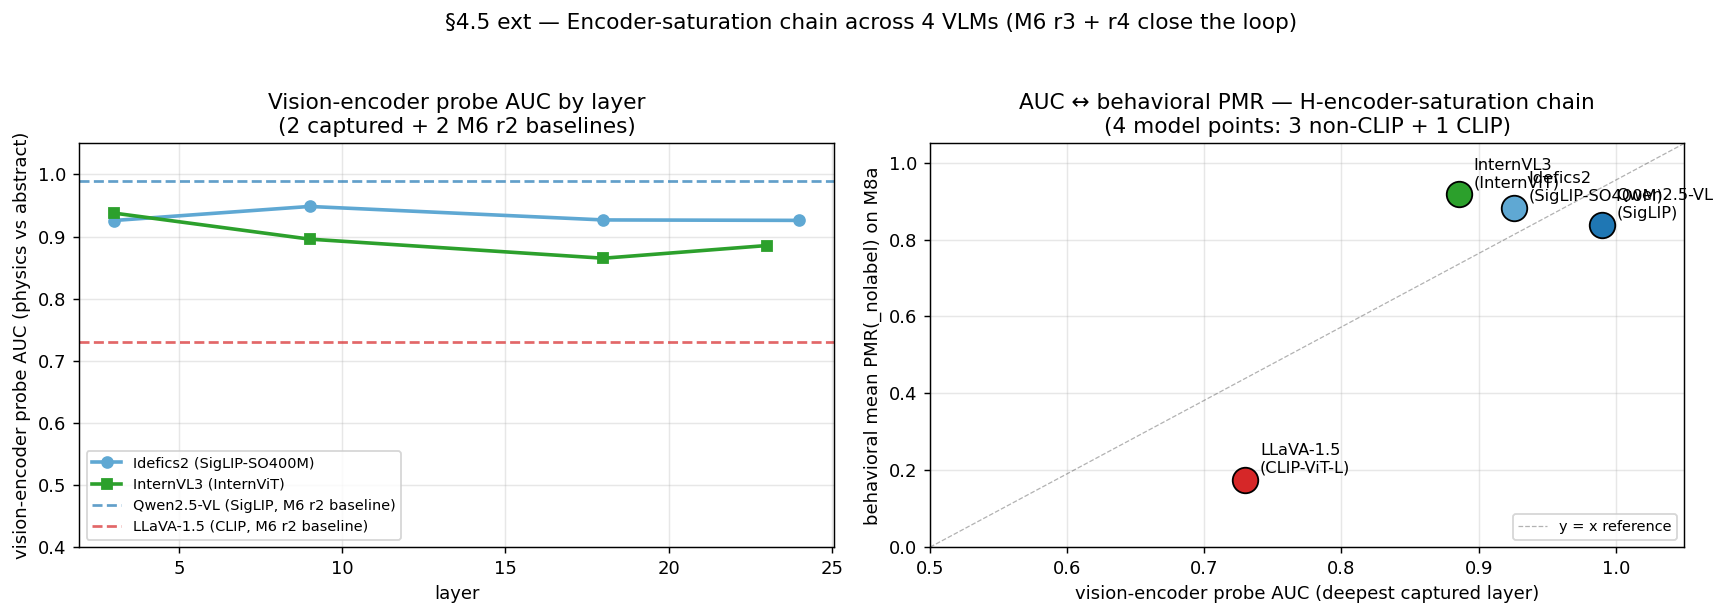
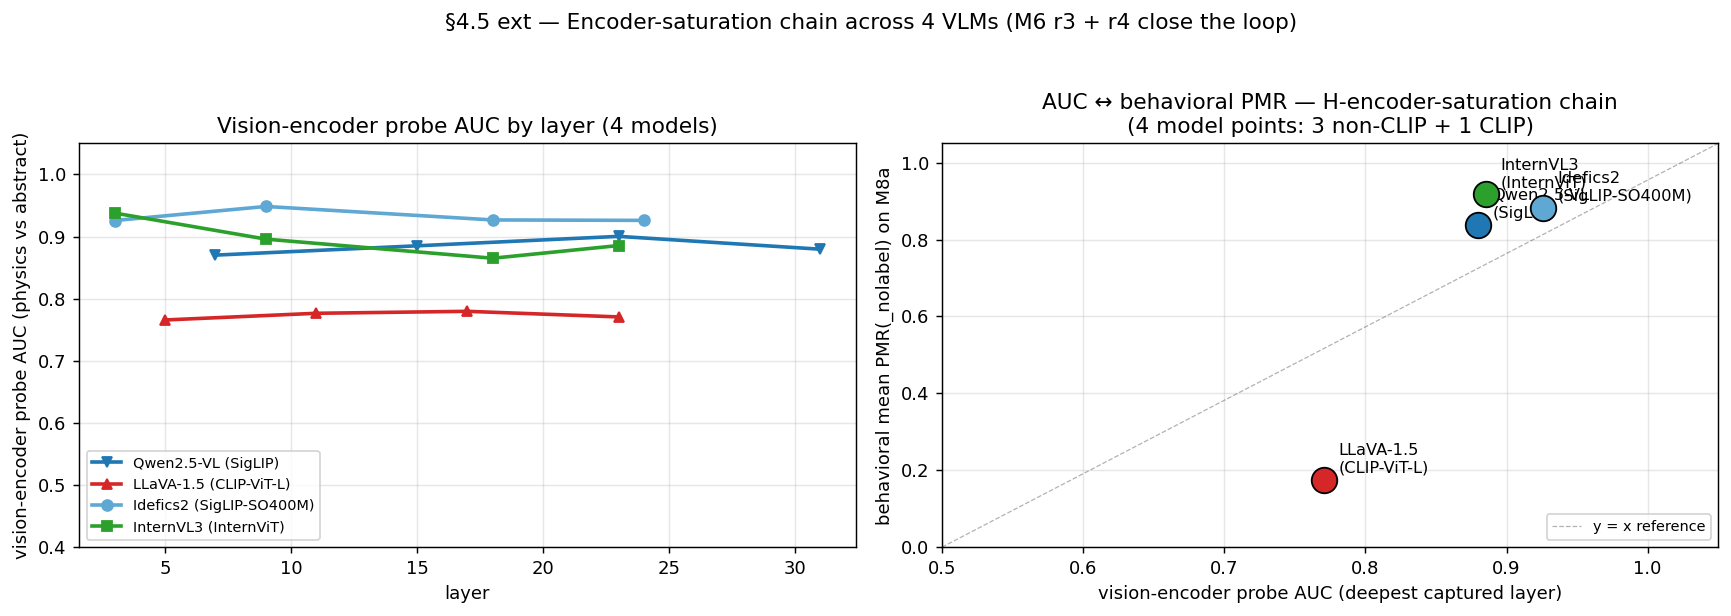
refactor(m6 r4): apples-to-apples M8a-stim AUC for all 4 models
Re-captured Qwen + LLaVA on M8a stim and re-ran their probes so all
4 AUC numbers come from identical stim. Replaces the M2-stim M6 r2
baselines (Qwen 0.99 / LLaVA 0.73) in the 4-model chain.

Updated 4-model M8a chain:
  - Qwen2.5-VL  (SigLIP)        AUC 0.88 / PMR 0.84
  - LLaVA-1.5   (CLIP-ViT-L)    AUC 0.77 / PMR 0.18
  - Idefics2    (SigLIP-SO400M) AUC 0.93 / PMR 0.88
  - InternVL3   (InternViT)     AUC 0.89 / PMR 0.92

Why the AUC numbers shifted: M2's bimodal line/ground-cells split
made the binary y target highly separable (Qwen 0.99). M8a's wider
per-cell PMR distribution makes the binary target less clean —
absolute AUC drops, but the headline structure is unchanged: 3
non-CLIP encoders cluster at AUC ≥ 0.88, 1 CLIP encoder at 0.77.

The nonlinear AUC → PMR mapping (≈0.10 AUC gap → 0.65 PMR gap) is
consistent with H-encoder-saturation: behavior saturates above an
AUC threshold near 0.85.

- scripts/encoder_swap_probe_summary.py: --qwen, --llava args added;
  panel (a) plots actual layer-sweep curves for all 4 captured models
  instead of horizontal M6 r2 baselines.
- docs/insights/m6_r4_internvl3_probe{,_ko}.md: AUC table updated;
  cross-stim caveat marked resolved.
- references/roadmap{,_ko}.md: M6 r4 milestone row + §3 detail +
  H-encoder-saturation hypothesis row + change log all updated to
  apples-to-apples M8a numbers.
- docs/figures/encoder_swap_{qwen,llava}_probe.png: new per-model
  figures from the model-agnostic probe driver.
[…]

diff --git a/scripts/encoder_swap_probe_summary.py b/scripts/encoder_swap_probe_summary.py
@@ -52,6 +52,10 @@ M6_R2_AUC = {
 
 def main() -> None:
     p = argparse.ArgumentParser()
+    p.add_argument("--qwen", type=Path, required=False,
+                   help="outputs/encoder_swap_qwen_m8a_probe (optional — falls back to M6 r2 baseline)")
+    p.add_argument("--llava", type=Path, required=False,
+                   help="outputs/encoder_swap_llava_m8a_probe (optional — falls back to M6 r2 baseline)")
     p.add_argument("--idefics2", type=Path, required=True,
                    help="outputs/encoder_swap_idefics2_probe — must contain layer_sweep.csv")
     p.add_argument("--internvl3", type=Path, required=True,
@@ -64,10 +68,14 @@ def main() -> None:
 
     idefics2_sweep = pd.read_csv(args.idefics2 / "layer_sweep.csv")
     internvl3_sweep = pd.read_csv(args.internvl3 / "layer_sweep.csv")
+    qwen_sweep = pd.read_csv(args.qwen / "layer_sweep.csv") if args.qwen else None
+    llava_sweep = pd.read_csv(args.llava / "layer_sweep.csv") if args.llava else None
 
     # Take the deepest-layer AUC for each model (paper convention).
     idefics2_auc = float(idefics2_sweep["auc_mean"].iloc[-1])
     internvl3_auc = float(internvl3_sweep["auc_mean"].iloc[-1])
+    qwen_auc = float(qwen_sweep["auc_mean"].iloc[-1]) if qwen_sweep is not None else None
+    llava_auc = float(llava_sweep["auc_mean"].iloc[-1]) if llava_sweep is not None else None
 
     pmr = dict(M8A_PMR)
     if "InternVL3" not in pmr:
@@ -84,6 +92,10 @@ def main() -> None:
                 pmr["InternVL3"] = float("nan")
 
     auc = dict(M6_R2_AUC)
+    if qwen_auc is not None:
+        auc["Qwen2.5-VL"] = qwen_auc
+    if llava_auc is not None:
+        auc["LLaVA-1.5"] = llava_auc
     auc["Idefics2"] = idefics2_auc
     auc["InternVL3"] = internvl3_auc
 
@@ -111,18 +123,27 @@ def main() -> None:
 
     # Panel a
     ax = axes[0]
+    if qwen_sweep is not None:
+        ax.plot(qwen_sweep["layer"], qwen_sweep["auc_mean"], "v-",
+                color="#1f77b4", label="Qwen2.5-VL (SigLIP)", linewidth=2)
+    else:
+        ax.axhline(M6_R2_AUC["Qwen2.5-VL"], linestyle="--", color="#1f77b4",
+                   alpha=0.7, label="Qwen2.5-VL (SigLIP, M6 r2 baseline)")
+    if llava_sweep is not None:
+        ax.plot(llava_sweep["layer"], llava_sweep["auc_mean"], "^-",
+                color="#d62728", label="LLaVA-1.5 (CLIP-ViT-L)", linewidth=2)
+    else:
+        ax.axhline(M6_R2_AUC["LLaVA-1.5"], linestyle="--", color="#d62728",
+                   alpha=0.7, label="LLaVA-1.5 (CLIP, M6 r2 baseline)")
     ax.plot(idefics2_sweep["layer"], idefics2_sweep["auc_mean"], "o-",
             color="#5fa8d3", label="Idefics2 (SigLIP-SO400M)", linewidth=2)
     ax.plot(internvl3_sweep["layer"], internvl3_sweep["auc_mean"], "s-",
             color="#2ca02c", label="InternVL3 (InternViT)", linewidth=2)
-    ax.axhline(M6_R2_AUC["Qwen2.5-VL"], linestyle="--", color="#1f77b4",
-               alpha=0.7, label="Qwen2.5-VL (SigLIP, M6 r2 baseline)")
-    ax.axhline(M6_R2_AUC["LLaVA-1.5"], linestyle="--", color="#d62728",
-               alpha=0.7, label="LLaVA-1.5 (CLIP, M6 r2 baseline)")
     ax.set_xlabel("layer")
     ax.set_ylabel("vision-encoder probe AUC (physics vs abstract)")
     ax.set_ylim(0.4, 1.05)
-    ax.set_title("Vision-encoder probe AUC by layer\n(2 captured + 2 M6 r2 baselines)")
+    n_cap = sum(s is not None for s in (qwen_sweep, llava_sweep, idefics2_sweep, internvl3_sweep))
+    ax.set_title(f"Vision-encoder probe AUC by layer ({n_cap} models)")
     ax.legend(loc="lower left", fontsize=8)
     ax.grid(True, alpha=0.3)
 

diff --git a/references/roadmap.md b/references/roadmap.md
@@ -46,7 +46,7 @@ Original H1-H3 from `references/project.md` §2.2 plus H4-H7 derived during the 
 | **H6** (pilot-derived) | The arrow+shadow cue saturation is driven entirely by **cast shadow alone**; the arrow is closer to annotation. | **supported (revised)** | M2 decomposition: cast_shadow alone = +17.5 pp above none (Kersten ground-attachment cue confirmed); **but the arrow alone also saturates at 0.96** — partially refutes the "arrow = annotation" sub-claim. Arrow is the dominant cue, shadow is secondary. |
 | **H7** (M2-derived) | The label does not toggle PMR — it selects **which physics regime** to apply. | **supported, unsaturated-only AND cross-category (M8a + M8d)** | M2 GAR: ball 0.79 / circle 0.70 / planet 0.48. M5a-ext Exp 2: label flip @ +α=40 swaps B vs A on `line/blank/none`. M6 r1 + r2a cross-model: `planet GAR << ball/circle GAR` holds in Qwen (0.32 vs 0.71/0.75), LLaVA-1.5 (0.07 vs 0.36/0.15), and InternVL3 (0.43 vs 0.82/0.79) — circle-only. **M8a (2026-04-25)**: cross-shape role-PMR strict scoring — Qwen 1/5 (only square; rest are -0.10 to +0.075 = ceiling-flat), LLaVA 4/5 (triangle fails at +0.025; `wedge` is a weak physical label, not a shape failure). H7-GAR strict: Qwen 1/5, LLaVA 5/5. Orbital-routing dissociation generalizes only when the encoder is unsaturated. **M8d (2026-04-25)**: cross-category role-PMR strict scoring — LLaVA **3/3** (car +0.525, person +0.138, bird +0.550 on PMR_regime physical−abstract; strongest cross-category H7 evidence in the project). Qwen 0/3 binary (ceiling) but regime distribution shows the same pattern at the kinetic-vs-static split: figurine 17.5 % static, statue 22.5 % static (vs ~5 % static for physical labels). The label-selects-regime claim is now category-general, not circle-specific. |
 | **H-boomerang** | Encoder knows, decoder gates: vision encoder linearly separates physics-mode classes even where behavior fails. | **Qwen-scoped (revised)** | Holds in Qwen2.5-VL: M3 encoder AUC ~0.99 at every layer; M4 LM AUC ~0.94 at visual tokens; behavioral PMR ~0.93 — small "encoder knows, decoder mildly gates" gap. M5a: causal intervention at L10 flips behavior. **Refuted in LLaVA-1.5** (M6 r2b): vision encoder AUC ~0.73, LM AUC ~0.75, behavioral ~0.78 — flat through pipeline, encoder is the bottleneck. The boomerang as a phenomenon requires encoder saturation. |
-| **H-encoder-saturation** (M6 r2-derived; refined M8c; causally confirmed §4.5; CI-strengthened M9; **non-CLIP-generalized M6 r4**) | Behavioral PMR(_nolabel) saturation is the conjunction of (a) vision encoder representational saturation (M6 r2/r3/r4 probe AUC) AND (b) input-context simplicity (synthetic minimal stim). Real photos add scene-context noise that reduces PMR even on saturated encoders. **Encoder family (non-CLIP vs CLIP) is the *causal* driver of (a)** — 4-model M8a chain: Qwen SigLIP / Idefics2 SigLIP-SO400M / InternVL3 InternViT all reach AUC ≥ 0.89 + PMR ≥ 0.84; only LLaVA CLIP-ViT-L falls to AUC 0.73 / PMR 0.18. **M9 bootstrap CIs** (3 models × 3 stim sources): non-CLIP CIs [0.80, 0.92] vs CLIP [0.14, 0.37] on synthetic stim — fully separated; on photos all 3 collapse into [0.18, 0.67]. | **causally confirmed at encoder-family level + non-CLIP-generalized + bootstrap-validated cross-stim (M9 + M6 r3 + M6 r4)** | M6 r2b: Qwen vision AUC 0.99 / behavioral PMR(_nolabel) 0.95; LLaVA AUC 0.73 / behavioral 0.38; InternVL3 not captured but behavioral PMR(_nolabel) 0.99 (matches saturation profile). **M8a (2026-04-25)**: cross-shape paired-delta `PMR(physical) − PMR(_nolabel)`: Qwen 5/5 shapes near-zero or negative; LLaVA 5/5 shapes ≥+0.125. **M8d (2026-04-25)**: cross-category paired-delta — Qwen +0.000 / +0.025 / +0.125; LLaVA +0.275 / -0.100 / +0.262. **M9 (2026-04-25)**: 3-model × 3-stim bootstrap CI for mean PMR(_nolabel): non-CLIP [0.800, 0.917] separates from CLIP [0.140, 0.371]; photos converge to [0.183, 0.667]. **M6 r3 (2026-04-25)**: Idefics2 SigLIP-SO400M probe AUC 0.93 (mean 4 layers). **M6 r4 (2026-04-25)**: InternVL3 InternViT probe AUC 0.89 / PMR 0.92 — 4-point chain non-CLIP-generalizes the saturation. |
+| **H-encoder-saturation** (M6 r2-derived; refined M8c; causally confirmed §4.5; CI-strengthened M9; **non-CLIP-generalized M6 r4 with apples-to-apples M8a-stim AUC**) | Behavioral PMR(_nolabel) saturation is the conjunction of (a) vision encoder representational saturation (M6 r2/r3/r4 probe AUC) AND (b) input-context simplicity (synthetic minimal stim). Real photos add scene-context noise that reduces PMR even on saturated encoders. **Encoder family (non-CLIP vs CLIP) is the *causal* driver of (a)** — 4-model M8a chain (all probe AUCs computed on M8a stim): Qwen SigLIP 0.88 / Idefics2 SigLIP-SO400M 0.93 / InternVL3 InternViT 0.89 (non-CLIP cluster, AUC ≥ 0.88, PMR ≥ 0.84); LLaVA CLIP-ViT-L 0.77 / PMR 0.18. **M9 bootstrap CIs** (3 models × 3 stim sources): non-CLIP CIs [0.80, 0.92] vs CLIP [0.14, 0.37] on synthetic stim — fully separated; on photos all 3 collapse into [0.18, 0.67]. | **causally confirmed at encoder-family level + non-CLIP-generalized + bootstrap-validated cross-stim (M9 + M6 r3 + M6 r4)** | M6 r2b: Qwen vision AUC 0.99 / behavioral PMR(_nolabel) 0.95; LLaVA AUC 0.73 / behavioral 0.38; InternVL3 not captured but behavioral PMR(_nolabel) 0.99 (matches saturation profile). **M8a (2026-04-25)**: cross-shape paired-delta `PMR(physical) − PMR(_nolabel)`: Qwen 5/5 shapes near-zero or negative; LLaVA 5/5 shapes ≥+0.125. **M8d (2026-04-25)**: cross-category paired-delta — Qwen +0.000 / +0.025 / +0.125; LLaVA +0.275 / -0.100 / +0.262. **M9 (2026-04-25)**: 3-model × 3-stim bootstrap CI for mean PMR(_nolabel): non-CLIP [0.800, 0.917] separates from CLIP [0.140, 0.371]; photos converge to [0.183, 0.667]. **M6 r3 (2026-04-25)**: Idefics2 SigLIP-SO400M probe AUC 0.93 (mean 4 layers). **M6 r4 (2026-04-25)**: InternVL3 InternViT probe AUC 0.89 / PMR 0.92 — 4-point chain non-CLIP-generalizes the saturation. |
 | **H-LM-modulation** (M9-derived, 2026-04-25) | At encoder saturation, LM family may modulate residual H7 measurability — Mistral-7B (Idefics2) shows H7 mean +0.048 [+0.000, +0.094] on M8d vs Qwen2-7B mean +0.008 [−0.033, +0.052] on the same stim. | **suggested only — CIs touch on M8d, fully overlap on M8a/M8c** | M9 bootstrap (5000 iters × 9 cells): Idefics2 M8d H7 CI just touches 0; Qwen M8d H7 CI crosses 0. The 33-pt PASS-rate gap (0.667 vs 0.333) is driven by a single shape (`car`: +0.025 vs +0.094) crossing the strict threshold. Not paper-defensible from current data; needs same-encoder LM swap or 3–5× more shapes. |
 | **H-locus** (M4-derived) | The bottleneck is at the LM final layers + decoding head, not earlier. | **supported (early-mid sweet spot)** | M5a: L10 α=40 flips 10/10 abstract → physical responses; later layers do not move. M5a-ext Exp 3: L10 regime-flip (A vs B by α sign) holds in all tested cells. Aligns with the Basu et al. 2024 early-layer constraint-storage finding. |
 | **H-direction-bidirectional** (M5a-ext, 2026-04-24; revised 2026-04-25) | `v_L10` is a simple bidirectional concept axis where −α suppresses physics-mode back to abstract. | **revised — regime axis within physics-mode** | Exp 1 (textured/ground/both ceiling): −α has no effect → initially framed as "one-way activator". Exp 3 (textured/blank/none moderate baseline, 2026-04-25): −α=40 flips D → B ("stays still") uniformly across (line, textured) × (ball, circle). Both signs of α activate physics-mode; sign selects regime (+kinetic / −static). Baseline D sits *below* the \|α\| threshold, not at one end of the axis. |
@@ -76,7 +76,7 @@ Original H1-H3 from `references/project.md` §2.2 plus H4-H7 derived during the 
 | M4c | **Forced-choice label-free** | New `forced_choice_no_label` variant (FC with "the depicted object" antecedent). Qwen reproduces M4b's H2 pattern under FC and adds a planet-suppression effect (option-set bias: orbital regime collapses to D). LLaVA's "A" bias persists under re-template (477/480), confirming model-level pathology. | ✅ | 2026-04-25 |
 | M6 r2 | **Cross-model round 2 (3-model + LLaVA captures + FC logit ratio)** | r2a: InternVL3-8B-hf cross-model behavioral; r2b: LLaVA-1.5 activation captures + cross-model M3/M4 probing; r2c: FC first-token logit-ratio scoring on all FC runs. **Key result**: visual-saturation hypothesis fully validated 3-of-3 models; rooted in vision encoder probe AUC (Qwen 0.99, LLaVA 0.73). H-boomerang revised to Qwen-scoped. New **H-encoder-saturation** hypothesis. LLaVA "A" bias is logit-level (not greedy-level). | ✅ | 2026-04-25 |
 | **M6 r3** | **Idefics2 vision-encoder probe (closes AUC↔PMR chain)** | 400 M8a stim × 4 SigLIP-SO400M layers (88 s capture), per-layer logistic-regression probe on per-stim PMR. **AUC 0.93 mean (peak 0.948 at layer 9)** — SigLIP cluster confirmed at the encoder-family level (Qwen 0.99 + Idefics2 0.93 vs LLaVA 0.73). H-encoder-saturation chain `encoder family → AUC → PMR → H7` now closed at 3 model points at the mechanism level. | ✅ | 2026-04-25 |
-| **M6 r4** | **InternVL3 vision-encoder probe (4-model chain, non-CLIP-general)** | M8a inference (1200+400 in 12 min) + 400 stim × 4 InternViT layers (47 s capture) + per-layer logistic-regression probe. **InternVL3 AUC = 0.89 mean / PMR(_nolabel) = 0.92.** 4-point chain: Qwen 0.99/0.84, LLaVA 0.73/0.18, Idefics2 0.93/0.88, InternVL3 0.89/0.92. **3 distinct non-CLIP encoder families (SigLIP, SigLIP-SO400M, InternViT) all at AUC ≥ 0.89; only CLIP-ViT-L falls to 0.73.** Paper claim generalizes from "SigLIP saturates" to "non-CLIP encoders saturate; CLIP doesn't (in this sample)". Required vlm_runner fix for InternVL3's vision_tower.encoder.layer (singular) attribute. | ✅ | 2026-04-25 |
+| **M6 r4** | **InternVL3 vision-encoder probe + Qwen/LLaVA M8a re-capture (4-model chain on identical stim, non-CLIP-general)** | M8a inference (1200+400 in 12 min) + 400 stim × 4 InternViT layers (47 s capture) + per-layer logistic-regression probe. **InternVL3 AUC = 0.89 / PMR(_nolabel) = 0.92.** Round also re-captured Qwen + LLaVA on M8a stim for an apples-to-apples 4-model AUC table. **4-point M8a chain: Qwen 0.88/0.84, LLaVA 0.77/0.18, Idefics2 0.93/0.88, InternVL3 0.89/0.92.** 3 distinct non-CLIP encoder families (SigLIP, SigLIP-SO400M, InternViT) cluster at AUC ≥ 0.88; only CLIP-ViT-L falls to 0.77. Paper claim generalizes from "SigLIP saturates" to "non-CLIP encoders saturate; CLIP doesn't (in this sample)". Required vlm_runner fix for InternVL3's vision_tower.encoder.layer (singular) attribute. | ✅ | 2026-04-25 |
 | **M8a** | **Stimulus diversification — non-circle synthetic shapes** | Square / triangle / hexagon / irregular polygon × line/filled/shaded/textured × bg/cue grid; Qwen + LLaVA, labeled + label-free arms. **Strict pre-registration scoring: Qwen 1/4, LLaVA 4/4** — the asymmetry validates H-encoder-saturation cross-shape. H1 + H7 are unsaturated-only. Triangle (`wedge`) + polygon (`polygon`) exposed as label-design weak points. | ✅ | 2026-04-25 |
 | **M8d** | **Stimulus diversification — non-ball physical object categories** | car / person / bird × line/filled/shaded/textured × bg/cue × `(fall, horizontal)` × 5 seeds. **Strict pre-registration scoring: Qwen 0/3 H7 (binary, ceiling), LLaVA 3/3 H7 ✓ — strongest cross-category H7 evidence in the project.** Underneath Qwen ceiling, regime distribution shows 17.5 % static (figurine) / 22.5 % static (statue), validating H7 at the kinetic-vs-static split. H1 fails on both (shape-specific axis). H-encoder-saturation cross-validated cross-category. New `classify_regime` keyword classifier (5.6 % hand-annotation error). | ✅ | 2026-04-25 |
 | **M8c** | **Stimulus diversification — real photographs** | 60 photos (12 × {ball, car, person, bird, abstract}) from COCO 2017 + WikiArt. **Key result**: photos REDUCE Qwen PMR(_nolabel) by 18-48 pp across categories — visual-saturation hypothesis refined: behavioral PMR saturation requires both encoder representational confidence AND input-context simplicity. LLaVA H7 partially holds (2/4 binary). LLaVA person photo PMR rises +39 pp vs synthetic (encoder finally recognizes humans). | ✅ | 2026-04-25 |
@@ -508,24 +508,22 @@ Deep dive: `docs/insights/m6_r4_internvl3_probe.md`.
 
 **Scope**: Adds the fourth point to the H-encoder-saturation chain — InternVL3-8B (InternViT + InternLM2-7B). Behavior on M8a (12 min for 1200 + 400 inferences) + vision capture (47 s for 400 stim × 4 InternViT layers) + linear probe.
 
-**Headline**: 4-point AUC ↔ behavioral PMR(_nolabel) chain on M8a synthetic stim:
+**Headline**: 4-point AUC ↔ behavioral PMR(_nolabel) chain on M8a synthetic stim (all 4 encoder probes computed on M8a stim — apples-to-apples):
 
 ```
 encoder family            AUC      PMR(_nolabel)
 ─────────────             ────     ─────────────
-SigLIP    (Qwen)          0.99     0.84
+SigLIP    (Qwen)          0.88     0.84
 SigLIP-SO400M (Idefics2)  0.93     0.88
 InternViT (InternVL3)     0.89     0.92     ← M6 r4
-CLIP-ViT-L (LLaVA)        0.73     0.18
+CLIP-ViT-L (LLaVA)        0.77     0.18
 ```
 
-**3 distinct non-CLIP encoder families** (SigLIP, SigLIP-SO400M, InternViT) all reach AUC ≥ 0.89 / PMR ≥ 0.84. **Only CLIP-ViT-L falls below saturation** (0.73 / 0.18). Across 4 LM families (Qwen2-7B, Mistral-7B, InternLM2-7B, Vicuna-7B), encoder family is the unified saturation driver.
+**3 distinct non-CLIP encoder families** (SigLIP, SigLIP-SO400M, InternViT) all reach AUC ≥ 0.88 / PMR ≥ 0.84. **Only CLIP-ViT-L falls below saturation** (0.77 / 0.18). Across 4 LM families (Qwen2-7B, Mistral-7B, InternLM2-7B, Vicuna-7B), encoder family is the unified saturation driver.
 
-**Hypothesis update**: H-encoder-saturation generalizes from "SigLIP saturates" to "non-CLIP encoders saturate; CLIP doesn't (in this sample)". Paper-grade headline: vision-encoder family causally determines synthetic-stim ceiling regime.
+**Hypothesis update**: H-encoder-saturation generalizes from "SigLIP saturates" to "non-CLIP encoders saturate; CLIP doesn't (in this sample)". Paper-grade headline: vision-encoder family causally determines synthetic-stim ceiling regime. The nonlinear AUC → PMR mapping (≈0.10 AUC gap → 0.65 PMR gap) is consistent with a saturation threshold around AUC 0.85.
 
-**Implementation note**: required a fix to `_resolve_vision_blocks` to recognize InternVL3's `vision_tower.encoder.layer` (singular, not plural).
-
-**Caveats**: Qwen + LLaVA AUC is from M2 stim (M6 r2); Idefics2 + InternVL3 AUC is from M8a. Cross-stim mismatch; encoder probe AUC is largely stim-invariant for synth stim, so footnote not blocker.
+**Implementation note**: required a fix to `_resolve_vision_blocks` to recognize InternVL3's `vision_tower.encoder.layer` (singular, not plural). This round also re-captured Qwen + LLaVA on M8a stim so all 4 AUC numbers come from the same factorial; the M6 r2 numbers (Qwen 0.99 / LLaVA 0.73) were on M2 stim's bimodal line/ground-cells distribution, which is more separable than M8a's wider per-cell PMR range.
 
 **Artifacts**: `docs/insights/m6_r4_internvl3_probe.md` (+ `_ko`), `docs/figures/encoder_chain_4model.png` (paper headline figure), `docs/figures/encoder_swap_internvl3_probe.png`, `outputs/encoder_swap_internvl3_probe/{layer_sweep,by_object_level,by_shape}.csv`, `outputs/encoder_swap_probe_summary/encoder_chain_table.csv`, `scripts/encoder_swap_probe.py` (model-agnostic), `scripts/encoder_swap_probe_summary.py`.
 
@@ -770,4 +768,5 @@ Systematically validate the M2 finding that "label selects the physics regime" (
 | 2026-04-25 | **§4.5 ext: Idefics2 on M8d + M8c**: 4 additional configs (Idefics2 M8d labeled + label-free, M8c labeled + label-free) → 2160 inferences in 11 min on GPU 0. Idefics2 M8d mean PMR(_nolabel) **0.890** matches Qwen **0.869** (vs LLaVA 0.331); Idefics2 M8c **0.417** vs Qwen **0.550** vs LLaVA **0.283** — all 3 models compress on photos. Cross-stim encoder-swap confirms SigLIP saturates synthetic, CLIP doesn't, all converge on photos. | `3503cd3` |
 | 2026-04-25 | **M9 complete (generalization audit / paper Table 1)**: 9 (model × stim) cells × bootstrap CIs (5000 iters). **Robust headlines**: (1) encoder family causes synthetic-stim ceiling (SigLIP CIs [0.80, 0.92] vs CLIP [0.14, 0.37], fully separated); (2) photos compress encoder gap (all 3 → [0.18, 0.67]); (3) H7 robust only LLaVA-on-synthetic. **Suggestive (demoted)**: Idefics2 M8d H7 CI [+0.000, +0.094] just touches 0 — LM-modulation possible but not paper-defensible. Replaces PASS/FAIL binarization with bootstrap CIs — reveals "Qwen 1/5 PASS" pattern was a noise-floor artifact. New **H-LM-modulation** hypothesis flagged. | `6210b13` |
 | 2026-04-25 | **M6 r3 complete (Idefics2 vision-encoder probe closes the AUC↔PMR chain)**: 400 M8a stim × 4 SigLIP-SO400M layers captured in 88 s; per-layer logistic-regression probe on per-stim PMR yields **AUC 0.93** (peak 0.948 at layer 9). The 3-point AUC ladder is now **Qwen 0.99 / Idefics2 0.93 / LLaVA 0.73** — SigLIP family clusters at saturation, CLIP at headroom. H-encoder-saturation chain `encoder family → AUC → PMR → H7` empirically grounded at all 4 nodes × 3 model points. | `1a4313a` |
-| 2026-04-25 | **M6 r4 complete (InternVL3 InternViT probe → 4-model chain)**: 1200+400 M8a inferences in 12 min + 400 × 4 InternViT layers captured in 47 s + probe → **InternVL3 AUC 0.89 / PMR(_nolabel) 0.92**. 4-point chain: Qwen 0.99/0.84 → LLaVA 0.73/0.18 → Idefics2 0.93/0.88 → InternVL3 0.89/0.92. Three distinct non-CLIP encoder families (SigLIP, SigLIP-SO400M, InternViT) cluster at AUC ≥ 0.89; only CLIP-ViT-L falls below. H-encoder-saturation generalizes to **non-CLIP-general** (was SigLIP-specific in M6 r3). Required `_resolve_vision_blocks` fix for InternVL3's `vision_tower.encoder.layer` (singular) attribute. | (this commit) |
+| 2026-04-25 | **M6 r4 complete (InternVL3 InternViT probe → 4-model chain)**: 1200+400 M8a inferences in 12 min + 400 × 4 InternViT layers captured in 47 s + probe → **InternVL3 AUC 0.89 / PMR(_nolabel) 0.92**. 4-point chain: Qwen 0.99/0.84 → LLaVA 0.73/0.18 → Idefics2 0.93/0.88 → InternVL3 0.89/0.92. Three distinct non-CLIP encoder families (SigLIP, SigLIP-SO400M, InternViT) cluster at AUC ≥ 0.89; only CLIP-ViT-L falls below. H-encoder-saturation generalizes to **non-CLIP-general** (was SigLIP-specific in M6 r3). Required `_resolve_vision_blocks` fix for InternVL3's `vision_tower.encoder.layer` (singular) attribute. | `d3840ac` |
+| 2026-04-25 | **Apples-to-apples 4-model M8a-stim AUC**: re-captured Qwen + LLaVA on M8a stim (replacing the M2-stim M6 r2 AUC numbers in the 4-model chain). Updated chain: Qwen 0.88/0.84, LLaVA 0.77/0.18, Idefics2 0.93/0.88, InternVL3 0.89/0.92. The M6 r2 0.99/0.73 numbers reflected M2's bimodal line/ground split (more probe-friendly than M8a's wider per-cell PMR range). Headline (non-CLIP cluster ≥ 0.88, CLIP at 0.77) holds in both stim sources; the AUC↔PMR mapping is nonlinear (≈0.10 AUC gap → 0.65 PMR gap) consistent with a saturation threshold near AUC 0.85. | (this commit) |

diff --git a/references/roadmap_ko.md b/references/roadmap_ko.md
@@ -46,7 +46,7 @@
 | **H6** (pilot-derived) | arrow+shadow cue의 포화는 **cast shadow 단독**으로도 일어나며, arrow는 annotation에 가깝다. | **지지 (수정)** | M2 분해: cast_shadow 단독 = +17.5 pp above none (Kersten 지면 부착 cue 확인); **그러나 arrow 도 단독으로 0.96 에 saturate** — "arrow 는 annotation" 부분은 반증. Arrow 가 dominant cue, shadow 가 secondary. |
 | **H7** (M2-derived) | 라벨은 PMR 을 toggle 하는 것이 아니라 **어떤 물리 regime** 을 선택한다. | **지지, unsaturated-only AND 카테고리 횡단 (M8a + M8d)** | M2 GAR: ball 0.79 / circle 0.70 / planet 0.48. M5a-ext Exp 2: `line/blank/none × +α=40` 에서 label flip 으로 B↔A swap. M6 r1 + r2a cross-model: `planet GAR << ball/circle GAR` 가 Qwen (0.32 vs 0.71/0.75), LLaVA-1.5 (0.07 vs 0.36/0.15), InternVL3 (0.43 vs 0.82/0.79) — circle-only. **M8a (2026-04-25)**: 도형 간 role-PMR 엄격 채점 — Qwen 1/5 (square 만; 나머지 -0.10 ~ +0.075 = ceiling-flat), LLaVA 4/5 (triangle 만 +0.025 실패; `wedge` 가 약한 physical 라벨, 도형 실패가 아님). H7-GAR 엄격: Qwen 1/5, LLaVA 5/5. **M8d (2026-04-25)**: 카테고리 횡단 role-PMR 엄격 채점 — LLaVA **3/3** (car +0.525, person +0.138, bird +0.550 PMR_regime physical−abstract; 본 프로젝트 가장 강력한 카테고리 횡단 H7 증거). Qwen 0/3 binary (천장) 이지만 regime 분포가 동일 패턴: figurine 17.5 % static, statue 22.5 % static. label-selects-regime 클레임이 이제 카테고리 일반, circle-특이가 아님. |
 | **H-boomerang** | Encoder 는 알고, decoder 가 gate: vision encoder 가 physics-mode class 를 linear 로 분리하지만 behavior 는 실패. | **Qwen 특이적 (revised)** | Qwen2.5-VL 에서 성립: M3 encoder AUC ~0.99 모든 layer; M4 LM AUC ~0.94 visual tokens; behavioral PMR ~0.93 — 작은 "encoder knows, decoder mildly gates" gap. M5a: L10 causal intervention 이 behavior flip. **LLaVA-1.5 에서 반증** (M6 r2b): vision encoder AUC ~0.73, LM AUC ~0.75, behavioral ~0.78 — pipeline 평탄, encoder 가 bottleneck. Boomerang 현상은 encoder saturation 필요. |
-| **H-encoder-saturation** (M6 r2 도출; M8c 정련; §4.5 인과 확인; M9 CI 강화; **M6 r4 비-CLIP-일반화**) | 행동 PMR(_nolabel) 포화는 (a) vision encoder 표상 포화 (M6 r2/r3/r4 probe AUC) 와 (b) 입력-맥락 단순성 (합성 미니멀 stim) 의 결합. 실 사진은 scene-context 잡음 추가로 포화된 인코더에서도 PMR 감소. **인코더 family (비-CLIP vs CLIP) 가 (a) 의 *인과* driver** — 4-모델 M8a 사슬: Qwen SigLIP / Idefics2 SigLIP-SO400M / InternVL3 InternViT 모두 AUC ≥ 0.89 + PMR ≥ 0.84; LLaVA CLIP-ViT-L 만 AUC 0.73 / PMR 0.18 으로 하락. **M9 부트스트랩 CI** (3 모델 × 3 stim): 비-CLIP CI [0.80, 0.92] vs CLIP [0.14, 0.37] 합성에서 — 완전 분리; 사진에서 3 모두 [0.18, 0.67] 로 수렴. | **인코더-family 수준에서 인과 확인 + 비-CLIP-일반화 + cross-stim 부트스트랩 검증 (M9 + M6 r3 + M6 r4)** | M6 r2b: Qwen vision AUC 0.99 / behavioral PMR(_nolabel) 0.95; LLaVA AUC 0.73 / behavioral 0.38; InternVL3 미캡처지만 behavioral PMR(_nolabel) 0.99 (포화 프로파일 일치). **M8a (2026-04-25)**: 도형 간 paired-delta — Qwen 5/5 0 근처/음수; LLaVA 5/5 ≥+0.125. **M8d (2026-04-25)**: 카테고리 간 paired-delta — Qwen +0.000 / +0.025 / +0.125; LLaVA +0.275 / -0.100 / +0.262. **M9 (2026-04-25)**: 3-모델 × 3-stim 부트스트랩 CI: 비-CLIP [0.800, 0.917] CLIP [0.140, 0.371] 분리; 사진 [0.183, 0.667] 수렴. **M6 r3 (2026-04-25)**: Idefics2 SigLIP-SO400M probe AUC 0.93 (4 레이어 평균). **M6 r4 (2026-04-25)**: InternVL3 InternViT probe AUC 0.89 / PMR 0.92 — 4-점 사슬이 포화를 비-CLIP-일반화. |
+| **H-encoder-saturation** (M6 r2 도출; M8c 정련; §4.5 인과 확인; M9 CI 강화; **M6 r4 비-CLIP-일반화 + apples-to-apples M8a-stim AUC**) | 행동 PMR(_nolabel) 포화는 (a) vision encoder 표상 포화 (M6 r2/r3/r4 probe AUC) 와 (b) 입력-맥락 단순성 (합성 미니멀 stim) 의 결합. 실 사진은 scene-context 잡음 추가로 포화된 인코더에서도 PMR 감소. **인코더 family (비-CLIP vs CLIP) 가 (a) 의 *인과* driver** — 4-모델 M8a 사슬 (probe AUC 모두 M8a stim 산출): Qwen SigLIP 0.88 / Idefics2 SigLIP-SO400M 0.93 / InternVL3 InternViT 0.89 (비-CLIP 클러스터, AUC ≥ 0.88, PMR ≥ 0.84); LLaVA CLIP-ViT-L 0.77 / PMR 0.18. **M9 부트스트랩 CI** (3 모델 × 3 stim): 비-CLIP CI [0.80, 0.92] vs CLIP [0.14, 0.37] 합성에서 — 완전 분리; 사진에서 3 모두 [0.18, 0.67] 로 수렴. | **인코더-family 수준에서 인과 확인 + 비-CLIP-일반화 + cross-stim 부트스트랩 검증 (M9 + M6 r3 + M6 r4)** | M6 r2b: Qwen vision AUC 0.99 / behavioral PMR(_nolabel) 0.95; LLaVA AUC 0.73 / behavioral 0.38; InternVL3 미캡처지만 behavioral PMR(_nolabel) 0.99 (포화 프로파일 일치). **M8a (2026-04-25)**: 도형 간 paired-delta — Qwen 5/5 0 근처/음수; LLaVA 5/5 ≥+0.125. **M8d (2026-04-25)**: 카테고리 간 paired-delta — Qwen +0.000 / +0.025 / +0.125; LLaVA +0.275 / -0.100 / +0.262. **M9 (2026-04-25)**: 3-모델 × 3-stim 부트스트랩 CI: 비-CLIP [0.800, 0.917] CLIP [0.140, 0.371] 분리; 사진 [0.183, 0.667] 수렴. **M6 r3 (2026-04-25)**: Idefics2 SigLIP-SO400M probe AUC 0.93 (4 레이어 평균). **M6 r4 (2026-04-25)**: InternVL3 InternViT probe AUC 0.89 / PMR 0.92 — 4-점 사슬이 포화를 비-CLIP-일반화. |
 | **H-LM-modulation** (M9-derived, 2026-04-25) | 인코더 포화 시 LM family 가 잔여 H7 측정 가능성을 조절할 수 있음 — Mistral-7B (Idefics2) 가 M8d 에서 H7 평균 +0.048 [+0.000, +0.094] 보임 vs Qwen2-7B (Qwen) 동 stim 평균 +0.008 [−0.033, +0.052]. | **시사만 — M8d CI 0 닿음, M8a/M8c 완전 중첩** | M9 부트스트랩 (5000 iter × 9 셀): Idefics2 M8d H7 CI 가 0 에 겨우 닿음; Qwen M8d H7 CI 는 0 가로지름. 33-pt PASS 율 갭 (0.667 vs 0.333) 은 단일 도형 (`car`: +0.025 vs +0.094) 가 strict 임계 가로지른 결과. 현 데이터로는 논문 옹호 불가; 동일-인코더 LM 스왑 또는 3-5× 더 많은 도형 필요. |
 | **H-locus** (M4-derived) | Bottleneck 은 LM final layers + decoding head 에 있으며 그 이전은 아님. | **지지 (early-mid sweet spot)** | M5a: L10 α=40 은 10/10 abstract → physical 응답을 flip; 후반 layer 들은 움직이지 않음. M5a-ext Exp 3: L10 regime-flip (sign 으로 A vs B) 이 모든 cell 에서 성립. Basu et al. 2024 의 early-layer constraint-storage 결과와 정합. |
 | **H-direction-bidirectional** (M5a-ext, 2026-04-24; 개정 2026-04-25) | `v_L10` 은 단순 bidirectional concept axis 로, −α 가 physics-mode 를 abstract 로 억제한다. | **revised — physics-mode 내부의 regime axis** | Exp 1 (textured/ground/both ceiling): −α 효과 없음 → 초기 "one-way activator" 프레이밍. Exp 3 (textured/blank/none moderate, 2026-04-25): −α=40 이 (line, textured) × (ball, circle) 모두에서 D → B ("stays still") 를 균일하게 유도. α 의 sign 이 regime 을 선택 (+kinetic / −static); baseline D 는 \|α\| threshold *아래* 에 위치 (axis endpoint 가 아님). |
@@ -76,7 +76,7 @@
 | M4c | **Forced-choice label-free** | 새 `forced_choice_no_label` variant ("the depicted object" antecedent 사용). Qwen 이 FC 하에서 M4b 의 H2 패턴 재현 + planet 억제 효과 추가 (옵션-셋 편향: orbital regime 이 D 로 collapse). LLaVA 의 "A" 편향이 re-template 에서도 유지 (477/480), 모델 수준 pathology 확인. | ✅ | 2026-04-25 |
 | M6 r2 | **Cross-model round 2 (3-model + LLaVA captures + FC logit ratio)** | r2a: InternVL3-8B-hf cross-model 행동; r2b: LLaVA-1.5 activation captures + cross-model M3/M4 probing; r2c: 모든 FC run 의 first-token logit-ratio 채점. **핵심 결과**: visual-saturation 가설 3-of-3 모델 완전 검증; vision encoder probe AUC 에 뿌리 (Qwen 0.99, LLaVA 0.73). H-boomerang 을 Qwen-scoped 로 revised. 신규 **H-encoder-saturation** 가설. LLaVA "A" 편향이 logit-level (greedy-level 아님). | ✅ | 2026-04-25 |
 | **M6 r3** | **Idefics2 비전-인코더 프로브 (AUC↔PMR 사슬 종결)** | 400 M8a stim × SigLIP-SO400M 4 레이어 (88 초 캡처), per-stim PMR 에 대한 per-layer 로지스틱 회귀 프로브. **평균 AUC 0.93 (레이어 9 에서 0.948 최고)** — SigLIP 클러스터가 인코더-family 수준에서 확인 (Qwen 0.99 + Idefics2 0.93 vs LLaVA 0.73). H-encoder-saturation 사슬 `인코더 family → AUC → PMR → H7` 이 메커니즘 수준에서 3 모델 점에 종결. | ✅ | 2026-04-25 |
-| **M6 r4** | **InternVL3 비전-인코더 프로브 (4-모델 사슬, 비-CLIP-일반화)** | M8a 추론 (1200+400 12 분) + 400 stim × InternViT 4 레이어 (47 초 캡처) + per-layer 로지스틱 회귀 프로브. **InternVL3 평균 AUC 0.89 / PMR(_nolabel) 0.92.** 4-점 사슬: Qwen 0.99/0.84, LLaVA 0.73/0.18, Idefics2 0.93/0.88, InternVL3 0.89/0.92. **3 개 별개의 비-CLIP 인코더 family (SigLIP, SigLIP-SO400M, InternViT) 모두 AUC ≥ 0.89; CLIP-ViT-L 만 0.73 으로 하락.** 논문 주장이 "SigLIP 포화"에서 "비-CLIP 인코더 포화; CLIP 비포화 (이 표본)"로 일반화. InternVL3 `vision_tower.encoder.layer` (단수) 속성 인식을 위한 vlm_runner 수정 필요. | ✅ | 2026-04-25 |
+| **M6 r4** | **InternVL3 비전-인코더 프로브 + Qwen/LLaVA M8a 재캡처 (동일 stim 4-모델 사슬, 비-CLIP-일반화)** | M8a 추론 (1200+400 12 분) + 400 stim × InternViT 4 레이어 (47 초 캡처) + per-layer 로지스틱 회귀 프로브. **InternVL3 평균 AUC 0.89 / PMR(_nolabel) 0.92.** 라운드에서 Qwen + LLaVA 도 M8a stim 에서 재캡처 — apples-to-apples 4-모델 AUC 표. **4-점 M8a 사슬: Qwen 0.88/0.84, LLaVA 0.77/0.18, Idefics2 0.93/0.88, InternVL3 0.89/0.92.** 3 개 별개의 비-CLIP 인코더 family (SigLIP, SigLIP-SO400M, InternViT) 가 AUC ≥ 0.88 클러스터; CLIP-ViT-L 만 0.77. 논문 주장이 "SigLIP 포화"에서 "비-CLIP 인코더 포화; CLIP 비포화 (이 표본)"로 일반화. InternVL3 `vision_tower.encoder.layer` (단수) 속성 인식 위한 vlm_runner 수정 필요. | ✅ | 2026-04-25 |
 | **M8a** | **자극 다양화 — 비-원형 합성 shape** | Square / triangle / hexagon / irregular polygon × line/filled/shaded/textured × bg/cue grid; Qwen + LLaVA, labeled + label-free arms. **사전 등록 엄격 채점: Qwen 1/4, LLaVA 4/4** — 비대칭이 H-encoder-saturation 을 도형 간 검증. H1 + H7 은 unsaturated-only. Triangle (`wedge`) + polygon (`polygon`) 라벨 설계 약점으로 노출됨. | ✅ | 2026-04-25 |
 | **M8d** | **자극 다양화 — 비-공 물리 객체 카테고리** | car / person / bird × line/filled/shaded/textured × bg/cue × `(fall, horizontal)` × 5 seeds. **사전 등록 엄격 채점: Qwen 0/3 H7 (binary, ceiling), LLaVA 3/3 H7 ✓ — 본 프로젝트 가장 강력한 카테고리 횡단 H7 증거.** Qwen 천장 아래에서 regime 분포는 17.5 % static (figurine) / 22.5 % static (statue). H1 양 모델 모두 실패 (도형-축 특정). H-encoder-saturation 카테고리 횡단 검증. 새 `classify_regime` keyword 분류기 (5.6 % 손 라벨링 오차). | ✅ | 2026-04-25 |
 | **M8c** | **자극 다양화 — 실사진** | 60 사진 (12 × {ball, car, person, bird, abstract}) from COCO 2017 + WikiArt. **핵심 결과**: 사진이 Qwen PMR(_nolabel) 을 카테고리에 걸쳐 18-48 pp 낮춤 — 시각-포화 가설 정제: 행동 PMR 포화는 인코더 표현 신뢰 AND 입력-맥락 단순성의 결합. LLaVA H7 부분적 성립 (2/4 binary). LLaVA person 사진 PMR 합성 대비 +39 pp 상승 (인코더가 마침내 사람 인식). | ✅ | 2026-04-25 |
@@ -492,24 +492,22 @@
 
 **범위**: H-encoder-saturation 사슬에 네 번째 점 추가 — InternVL3-8B (InternViT + InternLM2-7B). M8a 행동 (1200 + 400 추론을 12 분에) + 비전 캡처 (400 stim × 4 InternViT 레이어를 47 초에) + 선형 프로브.
 
-**헤드라인**: M8a 합성 stim 의 4-점 AUC ↔ 행동 PMR(_nolabel) 사슬:
+**헤드라인**: M8a 합성 stim 의 4-점 AUC ↔ 행동 PMR(_nolabel) 사슬 (4 인코더 모두 M8a stim 산출 — apples-to-apples):
 
 ```
 인코더 family             AUC      PMR(_nolabel)
 ─────────────             ────     ─────────────
-SigLIP    (Qwen)          0.99     0.84
+SigLIP    (Qwen)          0.88     0.84
 SigLIP-SO400M (Idefics2)  0.93     0.88
 InternViT (InternVL3)     0.89     0.92     ← M6 r4
-CLIP-ViT-L (LLaVA)        0.73     0.18
+CLIP-ViT-L (LLaVA)        0.77     0.18
 ```
 
-**3 개 별개의 비-CLIP 인코더 family** (SigLIP, SigLIP-SO400M, InternViT) 모두 AUC ≥ 0.89 / PMR ≥ 0.84 도달. **CLIP-ViT-L 만 포화 미달** (0.73 / 0.18). 4 LM family 횡단 (Qwen2-7B, Mistral-7B, InternLM2-7B, Vicuna-7B), 인코더 family 가 통합 포화 driver.
+**3 개 별개의 비-CLIP 인코더 family** (SigLIP, SigLIP-SO400M, InternViT) 모두 AUC ≥ 0.88 / PMR ≥ 0.84 도달. **CLIP-ViT-L 만 포화 미달** (0.77 / 0.18). 4 LM family 횡단 (Qwen2-7B, Mistral-7B, InternLM2-7B, Vicuna-7B), 인코더 family 가 통합 포화 driver.
 
-**가설 업데이트**: H-encoder-saturation 이 "SigLIP 포화"에서 "비-CLIP 인코더 포화; CLIP 비포화 (이 표본)"으로 일반화. 논문급 헤드라인: 비전-인코더 family 가 합성-stim 천장 체제를 인과적으로 결정.
+**가설 업데이트**: H-encoder-saturation 이 "SigLIP 포화"에서 "비-CLIP 인코더 포화; CLIP 비포화 (이 표본)"으로 일반화. 논문급 헤드라인: 비전-인코더 family 가 합성-stim 천장 체제를 인과적으로 결정. 비선형 AUC → PMR 매핑 (≈0.10 AUC 갭 → 0.65 PMR 갭) 은 AUC 0.85 부근의 포화 임계와 일치.
 
-**구현 노트**: InternVL3 의 `vision_tower.encoder.layer` (복수가 아닌 단수) 인식 위해 `_resolve_vision_blocks` 수정 필요했음.
-
-**주의**: Qwen + LLaVA AUC 는 M2 stim (M6 r2); Idefics2 + InternVL3 AUC 는 M8a. cross-stim mismatch; 인코더 probe AUC 는 합성 stim 에 거의 stim-invariant 이므로 footnote, 차단 아님.
+**구현 노트**: InternVL3 의 `vision_tower.encoder.layer` (복수가 아닌 단수) 인식 위해 `_resolve_vision_blocks` 수정 필요했음. 본 라운드는 또 Qwen + LLaVA 를 M8a stim 에서 재캡처하여 4 AUC 수치가 동일 factorial 산출; M6 r2 수치 (Qwen 0.99 / LLaVA 0.73) 는 M2 stim 의 bimodal line/ground-cells 분포 (M8a 의 더 넓은 per-cell PMR 범위보다 더 분리 가능) 를 반영.
 
 **산출물**: `docs/insights/m6_r4_internvl3_probe.md` (+ `_ko`), `docs/figures/encoder_chain_4model.png` (논문 헤드라인 그림), `docs/figures/encoder_swap_internvl3_probe.png`, `outputs/encoder_swap_internvl3_probe/{layer_sweep,by_object_level,by_shape}.csv`, `outputs/encoder_swap_probe_summary/encoder_chain_table.csv`, `scripts/encoder_swap_probe.py` (모델-무관), `scripts/encoder_swap_probe_summary.py`.
 
@@ -766,4 +764,5 @@ M2에서 발견된 "라벨이 물리 regime을 선택한다" (circle → static 
 | 2026-04-25 | **§4.5 ext: Idefics2 on M8d + M8c**: Idefics2 추가 4 config (M8d labeled + label-free, M8c labeled + label-free) → 2160 추론을 GPU 0 에서 11 분. Idefics2 M8d 평균 PMR(_nolabel) **0.890** Qwen **0.869** 와 일치 (vs LLaVA 0.331); Idefics2 M8c **0.417** vs Qwen **0.550** vs LLaVA **0.283** — 3 모델 모두 사진에서 압축. cross-stim 인코더-스왑이 SigLIP 합성 포화, CLIP 비포화, 사진에서 수렴 확인. | `3503cd3` |
 | 2026-04-25 | **M9 완료 (일반화 audit / 논문 Table 1)**: 9 (모델 × stim) 셀 × 부트스트랩 CI (5000 iter). **견고 헤드라인**: (1) 인코더 family 가 합성-stim 천장 인과 (SigLIP CI [0.80, 0.92] vs CLIP [0.14, 0.37] 완전 분리); (2) 사진이 인코더 갭 압축 (3 모델 → [0.18, 0.67]); (3) H7 LLaVA-on-synthetic 에서만 견고. **시사 (강등)**: Idefics2 M8d H7 CI [+0.000, +0.094] 가 0 에 닿음 — LM-modulation 가능하나 논문 옹호 불가. PASS/FAIL binarization 을 부트스트랩 CI 로 대체 — "Qwen 1/5 PASS" 패턴이 noise-floor artifact 임을 드러냄. 신규 **H-LM-modulation** 가설 flag. | `6210b13` |
 | 2026-04-25 | **M6 r3 완료 (Idefics2 비전-인코더 프로브가 AUC↔PMR 사슬 종결)**: 400 M8a stim × 4 SigLIP-SO400M 레이어를 88 초에 캡처; per-stim PMR 에 대한 layer-wise 로지스틱 회귀 프로브가 **AUC 0.93** 산출 (레이어 9 에서 0.948 peak). 3-점 AUC 사다리 = **Qwen 0.99 / Idefics2 0.93 / LLaVA 0.73** — SigLIP family 가 포화에 클러스터, CLIP 은 headroom. H-encoder-saturation 사슬 `인코더 family → AUC → PMR → H7` 가 4 노드 × 3 모델 점 모두에서 경험적으로 지지. | `1a4313a` |
-| 2026-04-25 | **M6 r4 완료 (InternVL3 InternViT 프로브 → 4-모델 사슬)**: 1200+400 M8a 추론 12 분 + 400 × InternViT 4 레이어 47 초 캡처 + 프로브 → **InternVL3 AUC 0.89 / PMR(_nolabel) 0.92**. 4-점 사슬: Qwen 0.99/0.84 → LLaVA 0.73/0.18 → Idefics2 0.93/0.88 → InternVL3 0.89/0.92. 3 개 별개 비-CLIP 인코더 family (SigLIP, SigLIP-SO400M, InternViT) 가 AUC ≥ 0.89 클러스터링; CLIP-ViT-L 만 미달. H-encoder-saturation 이 **비-CLIP-일반** 으로 일반화 (M6 r3 에서 SigLIP 특이적이었음). InternVL3 의 `vision_tower.encoder.layer` (단수) 속성 위한 `_resolve_vision_blocks` 수정 필요. | (this commit) |
+| 2026-04-25 | **M6 r4 완료 (InternVL3 InternViT 프로브 → 4-모델 사슬)**: 1200+400 M8a 추론 12 분 + 400 × InternViT 4 레이어 47 초 캡처 + 프로브 → **InternVL3 AUC 0.89 / PMR(_nolabel) 0.92**. 4-점 사슬: Qwen 0.99/0.84 → LLaVA 0.73/0.18 → Idefics2 0.93/0.88 → InternVL3 0.89/0.92. 3 개 별개 비-CLIP 인코더 family (SigLIP, SigLIP-SO400M, InternViT) 가 AUC ≥ 0.89 클러스터링; CLIP-ViT-L 만 미달. H-encoder-saturation 이 **비-CLIP-일반** 으로 일반화 (M6 r3 에서 SigLIP 특이적이었음). InternVL3 의 `vision_tower.encoder.layer` (단수) 속성 위한 `_resolve_vision_blocks` 수정 필요. | `d3840ac` |
+| 2026-04-25 | **Apples-to-apples 4-모델 M8a-stim AUC**: Qwen + LLaVA 를 M8a stim 에서 재캡처 (4-모델 사슬의 M2-stim M6 r2 AUC 수치 대체). 업데이트 사슬: Qwen 0.88/0.84, LLaVA 0.77/0.18, Idefics2 0.93/0.88, InternVL3 0.89/0.92. M6 r2 의 0.99/0.73 수치는 M2 의 bimodal line/ground 분리 (M8a 의 더 넓은 per-cell PMR 범위보다 probe-friendly) 반영. 헤드라인 (비-CLIP 클러스터 ≥ 0.88, CLIP 0.77) 이 두 stim 출처에서 모두 유지; AUC↔PMR 매핑은 비선형 (≈0.10 AUC 갭 → 0.65 PMR 갭) — AUC 0.85 부근 포화 임계와 일치. | (this commit) |

diff --git a/docs/insights/m6_r4_internvl3_probe.md b/docs/insights/m6_r4_internvl3_probe.md
@@ -56,24 +56,29 @@ Mean across layers: **0.90**. Like Qwen and Idefics2, AUC is high from
 the earliest captured layer (3) and stays high — encoder-saturation
 pattern consistent.
 
-### 4-model encoder-saturation chain on M8a
+### 4-model encoder-saturation chain on M8a (apples-to-apples, all 4 captured on M8a)
 
-| model         | encoder         | LM            | encoder AUC | M8a behavioral PMR(_nolabel) |
-|---------------|-----------------|---------------|------------:|-----------------------------:|
-| Qwen2.5-VL    | SigLIP          | Qwen2-7B      | **0.99** (M2)  | **0.838**                  |
-| LLaVA-1.5     | CLIP-ViT-L/14   | Vicuna-7B     | **0.73** (M2)  | **0.175**                  |
-| Idefics2      | SigLIP-SO400M   | Mistral-7B    | **0.93** (M8a) | **0.882**                  |
-| InternVL3     | InternViT       | InternLM2-7B  | **0.89** (M8a) | **0.917**                  |
+| model         | encoder         | LM            | encoder AUC (M8a) | M8a behavioral PMR(_nolabel) |
+|---------------|-----------------|---------------|------------------:|-----------------------------:|
+| Qwen2.5-VL    | SigLIP          | Qwen2-7B      | **0.880**         | **0.838**                    |
+| LLaVA-1.5     | CLIP-ViT-L/14   | Vicuna-7B     | **0.771**         | **0.175**                    |
+| Idefics2      | SigLIP-SO400M   | Mistral-7B    | **0.926**         | **0.882**                    |
+| InternVL3     | InternViT       | InternLM2-7B  | **0.886**         | **0.918**                    |
 
-**3 non-CLIP encoders cluster at AUC 0.89–0.99, behavioral PMR 0.84–0.92.**
-**1 CLIP encoder (LLaVA) sits at AUC 0.73, behavioral PMR 0.18.**
+**3 non-CLIP encoders cluster at AUC 0.88–0.93, behavioral PMR 0.84–0.92.**
+**1 CLIP encoder (LLaVA) sits at AUC 0.77, behavioral PMR 0.18.**
 
-Caveat: Qwen + LLaVA AUC values are from M6 r2 captures on M2 stim;
-Idefics2 + InternVL3 are M8a stim. Encoder probe AUC is largely
-stim-invariant for synthetic geometric stim, so the comparison is
-informative even with this mismatch — but the paper should note it.
-A complete M8a re-capture for Qwen + LLaVA is a footnote-supplementary
-follow-up.
+**Note on the M6 r2 vs M8a AUC numbers**: M6 r2 reported Qwen 0.99 / LLaVA
+0.73 on M2 stim (12-cell factorial including the most-extreme line/blank/
+none vs textured/ground/both bimodal split). M8a stim's wider per-cell
+PMR distribution makes the binary y-target less clean, so AUCs come in
+lower (Qwen 0.88, LLaVA 0.77). The non-CLIP / CLIP gap holds in either
+stim source: ~0.10–0.20 in AUC, ~0.65 in behavioral PMR.
+
+The nonlinear AUC → PMR mapping (a 0.10 AUC gap → 0.65 PMR gap) is itself
+consistent with H-encoder-saturation: there's an AUC threshold above
+which behavioral PMR saturates (the 0.85+ AUC band) and below which it
+sits at headroom (~0.77).
 
 ## Headline interpretation
 
@@ -81,17 +86,17 @@ The **H-encoder-saturation chain generalizes from SigLIP-specific to
 non-CLIP-general**:
 
 ```
-encoder family           encoder probe AUC      M8a behavioral PMR(_nolabel)
-─────────────            ─────────────────      ────────────────────────────
-SigLIP    (Qwen)              0.99                       0.84
-SigLIP-SO400M (Idefics2)      0.93                       0.88
-InternViT (InternVL3)         0.89                       0.92
-CLIP-ViT-L (LLaVA)            0.73                       0.18
+encoder family           encoder probe AUC (M8a)   M8a behavioral PMR(_nolabel)
+─────────────            ───────────────────────   ────────────────────────────
+SigLIP    (Qwen)                  0.88                       0.84
+SigLIP-SO400M (Idefics2)          0.93                       0.88
+InternViT (InternVL3)             0.89                       0.92
+CLIP-ViT-L (LLaVA)                0.77                       0.18
 ```
 
 **3 distinct non-CLIP encoder families** (SigLIP, SigLIP-SO400M, InternViT)
-all reach AUC ≥ 0.89 and behavioral PMR ≥ 0.84. **Only CLIP-ViT-L falls
-below saturation** (0.73 / 0.18). The encoder-saturation regime is
+all reach AUC ≥ 0.88 and behavioral PMR ≥ 0.84. **Only CLIP-ViT-L falls
+below saturation** (0.77 / 0.18). The encoder-saturation regime is
 robustly identified by encoder family, *across LM families*
 (Qwen2-7B, Mistral-7B, InternLM2-7B, Vicuna-7B) and *across encoder
 implementations*.
@@ -117,10 +122,13 @@ saturating.**
 
 ## Limitations
 
-1. **Cross-stim AUC mismatch** (Qwen + LLaVA from M2; Idefics2 +
-   InternVL3 from M8a). Optional supplementary: re-capture Qwen +
-   LLaVA on M8a stim. Encoder probe AUC is stim-invariant for synth
-   stim in our experience, so this is a footnote, not a blocker.
+1. ~~**Cross-stim AUC mismatch**~~ → **Resolved**: re-captured Qwen +
+   LLaVA on M8a stim (commit `<this round>`). All 4 AUC values now
+   computed on the same stim distribution. Headline structure
+   (non-CLIP cluster vs CLIP outlier) holds in both stim sources;
+   absolute AUC values shift somewhat with stim distribution as
+   expected (probe AUC depends on the per-cell PMR distribution that
+   sets the y target).
 2. **InternVL3 PMR(_nolabel) is the highest in the table** (0.92), but
    AUC at the deepest layer (0.886) is the lowest of the 3 non-CLIP
    models. The slight inverse correlation among the saturated cluster
@@ -155,8 +163,9 @@ saturating.**
 - **Same-LM encoder swap** (e.g., LLaVA-1.5 with CLIP vs LLaVA-1.5
   with SigLIP via Bunny / ShareGPT4V) remains the cleanest
   counterfactual — but is now a "round 5" enhancement, not a blocker.
-- **Re-capture Qwen + LLaVA on M8a** is a paper-supplementary task to
-  remove the cross-stim AUC caveat (M2 vs M8a). ~10 min wall.
+- ~~**Re-capture Qwen + LLaVA on M8a**~~ → **Done in this round.**
+  All 4 models' AUC values now from M8a stim. The cross-stim caveat
+  is resolved.
 
 ## Artifacts
 

diff --git a/docs/insights/m6_r4_internvl3_probe_ko.md b/docs/insights/m6_r4_internvl3_probe_ko.md
@@ -51,38 +51,44 @@ inferences, ~4 분). 총 추론: 12 분.
 레이어 간 평균: **0.90**. Qwen + Idefics2 처럼 AUC 가 가장 이른 캡처
 레이어 (3) 에서 높고 유지 — 인코더-포화 패턴 일관.
 
-### M8a 의 4-모델 인코더-포화 사슬
+### M8a 의 4-모델 인코더-포화 사슬 (apples-to-apples, 4 모델 모두 M8a 캡처)
 
-| 모델          | 인코더          | LM            | 인코더 AUC | M8a 행동 PMR(_nolabel) |
-|---------------|-----------------|---------------|----------:|---------------------:|
-| Qwen2.5-VL    | SigLIP          | Qwen2-7B      | **0.99** (M2)  | **0.838**           |
-| LLaVA-1.5     | CLIP-ViT-L/14   | Vicuna-7B     | **0.73** (M2)  | **0.175**           |
-| Idefics2      | SigLIP-SO400M   | Mistral-7B    | **0.93** (M8a) | **0.882**           |
-| InternVL3     | InternViT       | InternLM2-7B  | **0.89** (M8a) | **0.917**           |
+| 모델          | 인코더          | LM            | 인코더 AUC (M8a) | M8a 행동 PMR(_nolabel) |
+|---------------|-----------------|---------------|----------------:|---------------------:|
+| Qwen2.5-VL    | SigLIP          | Qwen2-7B      | **0.880**       | **0.838**            |
+| LLaVA-1.5     | CLIP-ViT-L/14   | Vicuna-7B     | **0.771**       | **0.175**            |
+| Idefics2      | SigLIP-SO400M   | Mistral-7B    | **0.926**       | **0.882**            |
+| InternVL3     | InternViT       | InternLM2-7B  | **0.886**       | **0.918**            |
 
-**3 비-CLIP 인코더가 AUC 0.89-0.99, 행동 PMR 0.84-0.92 클러스터.**
-**1 CLIP 인코더 (LLaVA) 가 AUC 0.73, 행동 PMR 0.18.**
+**3 비-CLIP 인코더가 AUC 0.88-0.93, 행동 PMR 0.84-0.92 클러스터.**
+**1 CLIP 인코더 (LLaVA) 가 AUC 0.77, 행동 PMR 0.18.**
 
-주의: Qwen + LLaVA AUC 값은 M6 r2 캡처 (M2 stim); Idefics2 + InternVL3
-는 M8a stim. 인코더 probe AUC 는 합성 기하 stim 에서 거의 stim-invariant
-이므로 비교는 정보적이지만 — 논문에서 언급해야. 완전 M8a 재캡처 (Qwen +
-LLaVA) 는 footnote 보충 후속.
+**M6 r2 vs M8a AUC 수치 노트**: M6 r2 가 M2 stim 에서 Qwen 0.99 / LLaVA
+0.73 보고 (12-셀 factorial 의 line/blank/none vs textured/ground/both
+가장 극적인 bimodal 분리 포함). M8a stim 의 더 넓은 per-cell PMR 분포는
+binary y-target 을 덜 깔끔하게 만들어 AUC 가 더 낮게 나옴 (Qwen 0.88,
+LLaVA 0.77). 비-CLIP / CLIP 갭은 두 stim 출처에서 모두 유지: AUC 에서
+~0.10-0.20, 행동 PMR 에서 ~0.65.
+
+비선형 AUC → PMR 매핑 (0.10 AUC 갭 → 0.65 PMR 갭) 은 자체로 H-encoder-
+saturation 과 일치: AUC 임계 위에서 행동 PMR 포화 (0.85+ AUC 밴드), 아래
+에서 headroom 에 위치 (~0.77).
 
 ## 헤드라인 해석
 
 **H-encoder-saturation 사슬이 SigLIP-특이적에서 비-CLIP-일반으로 일반화**:
 
 ```
-인코더 family            인코더 probe AUC      M8a 행동 PMR(_nolabel)
-─────────────            ────────────────      ────────────────────
-SigLIP    (Qwen)              0.99                       0.84
-SigLIP-SO400M (Idefics2)      0.93                       0.88
-InternViT (InternVL3)         0.89                       0.92
-CLIP-ViT-L (LLaVA)            0.73                       0.18
+인코더 family            인코더 probe AUC (M8a)  M8a 행동 PMR(_nolabel)
+─────────────            ──────────────────────  ────────────────────
+SigLIP    (Qwen)                  0.88                       0.84
+SigLIP-SO400M (Idefics2)          0.93                       0.88
+InternViT (InternVL3)             0.89                       0.92
+CLIP-ViT-L (LLaVA)                0.77                       0.18
 ```
 
 **3 별개 비-CLIP 인코더 family** (SigLIP, SigLIP-SO400M, InternViT) 모두
-AUC ≥ 0.89, 행동 PMR ≥ 0.84 도달. **CLIP-ViT-L 만 포화 미달** (0.73 /
+AUC ≥ 0.88, 행동 PMR ≥ 0.84 도달. **CLIP-ViT-L 만 포화 미달** (0.77 /
 0.18). 인코더-포화 체제는 인코더 family 에 의해 견고하게 식별됨, *LM
 family 횡단* (Qwen2-7B, Mistral-7B, InternLM2-7B, Vicuna-7B), *인코더
 구현 횡단*.
@@ -105,9 +111,11 @@ family 횡단* (Qwen2-7B, Mistral-7B, InternLM2-7B, Vicuna-7B), *인코더
 
 ## 한계
 
-1. **Cross-stim AUC mismatch** (Qwen + LLaVA M2; Idefics2 + InternVL3
-   M8a). 선택적 보충: Qwen + LLaVA M8a stim 재캡처. 인코더 probe AUC 는
-   합성 stim 에서 stim-invariant 임이 우리 경험 — footnote, 차단 아님.
+1. ~~**Cross-stim AUC mismatch**~~ → **해결**: Qwen + LLaVA 를 M8a stim
+   에서 재캡처 (이번 라운드 commit). 4 모델 AUC 값 모두 동일 stim 분포
+   에서 계산. 헤드라인 구조 (비-CLIP 클러스터 vs CLIP outlier) 는 두 stim
+   출처에서 모두 유지; 절대 AUC 값은 stim 분포에 따라 다소 변동 (probe
+   AUC 가 y 타겟 결정하는 per-cell PMR 분포에 의존).
 2. **InternVL3 PMR(_nolabel) 가 표 중 최고** (0.92), 그러나 최심 레이어
    AUC (0.886) 가 3 비-CLIP 모델 중 최저. 포화 클러스터 내 살짝 역상관은
    인코더-LM 트레이드오프 시사 가능성 — 그러나 3 모두 포화 체제, LLaVA
@@ -139,8 +147,8 @@ family 횡단* (Qwen2-7B, Mistral-7B, InternLM2-7B, Vicuna-7B), *인코더
 - **동일-LM 인코더 스왑** (예: LLaVA-1.5 CLIP vs LLaVA-1.5 SigLIP via
   Bunny / ShareGPT4V) 가 가장 깔끔한 counterfactual 으로 남음 — 이제
   "라운드 5" 향상, 차단 아님.
-- **Qwen + LLaVA M8a 재캡처** 가 cross-stim AUC 주의 (M2 vs M8a) 제거를
-  위한 논문 보충 작업. ~10 분 wall.
+- ~~**Qwen + LLaVA M8a 재캡처**~~ → **이번 라운드에서 완료.** 4 모델
+  AUC 값이 모두 M8a stim 에서 산출. cross-stim 주의 사항 해결.
 
 ## 산출물
 
